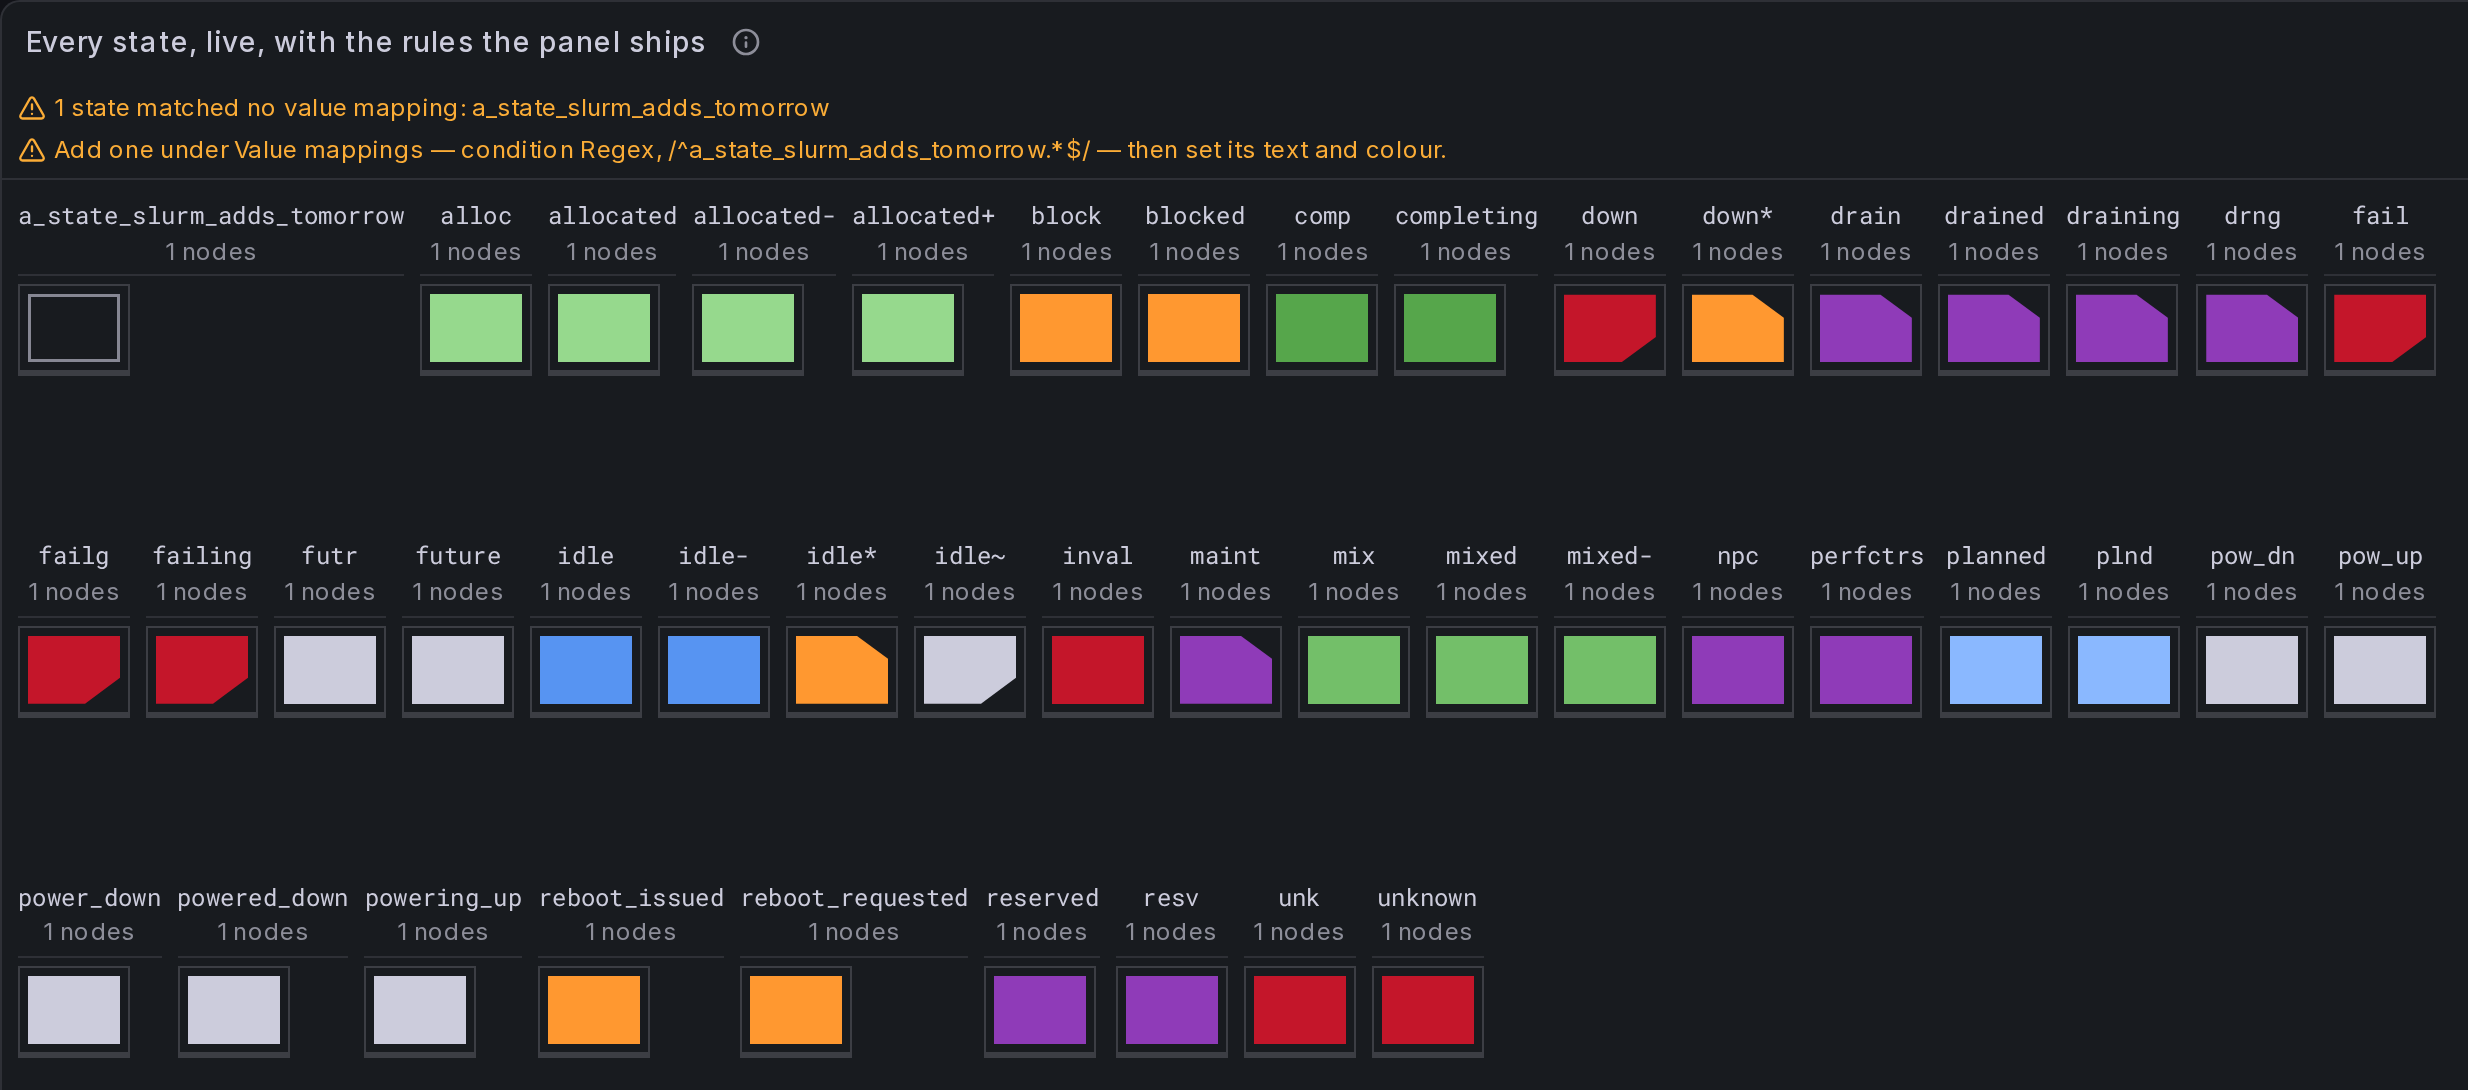
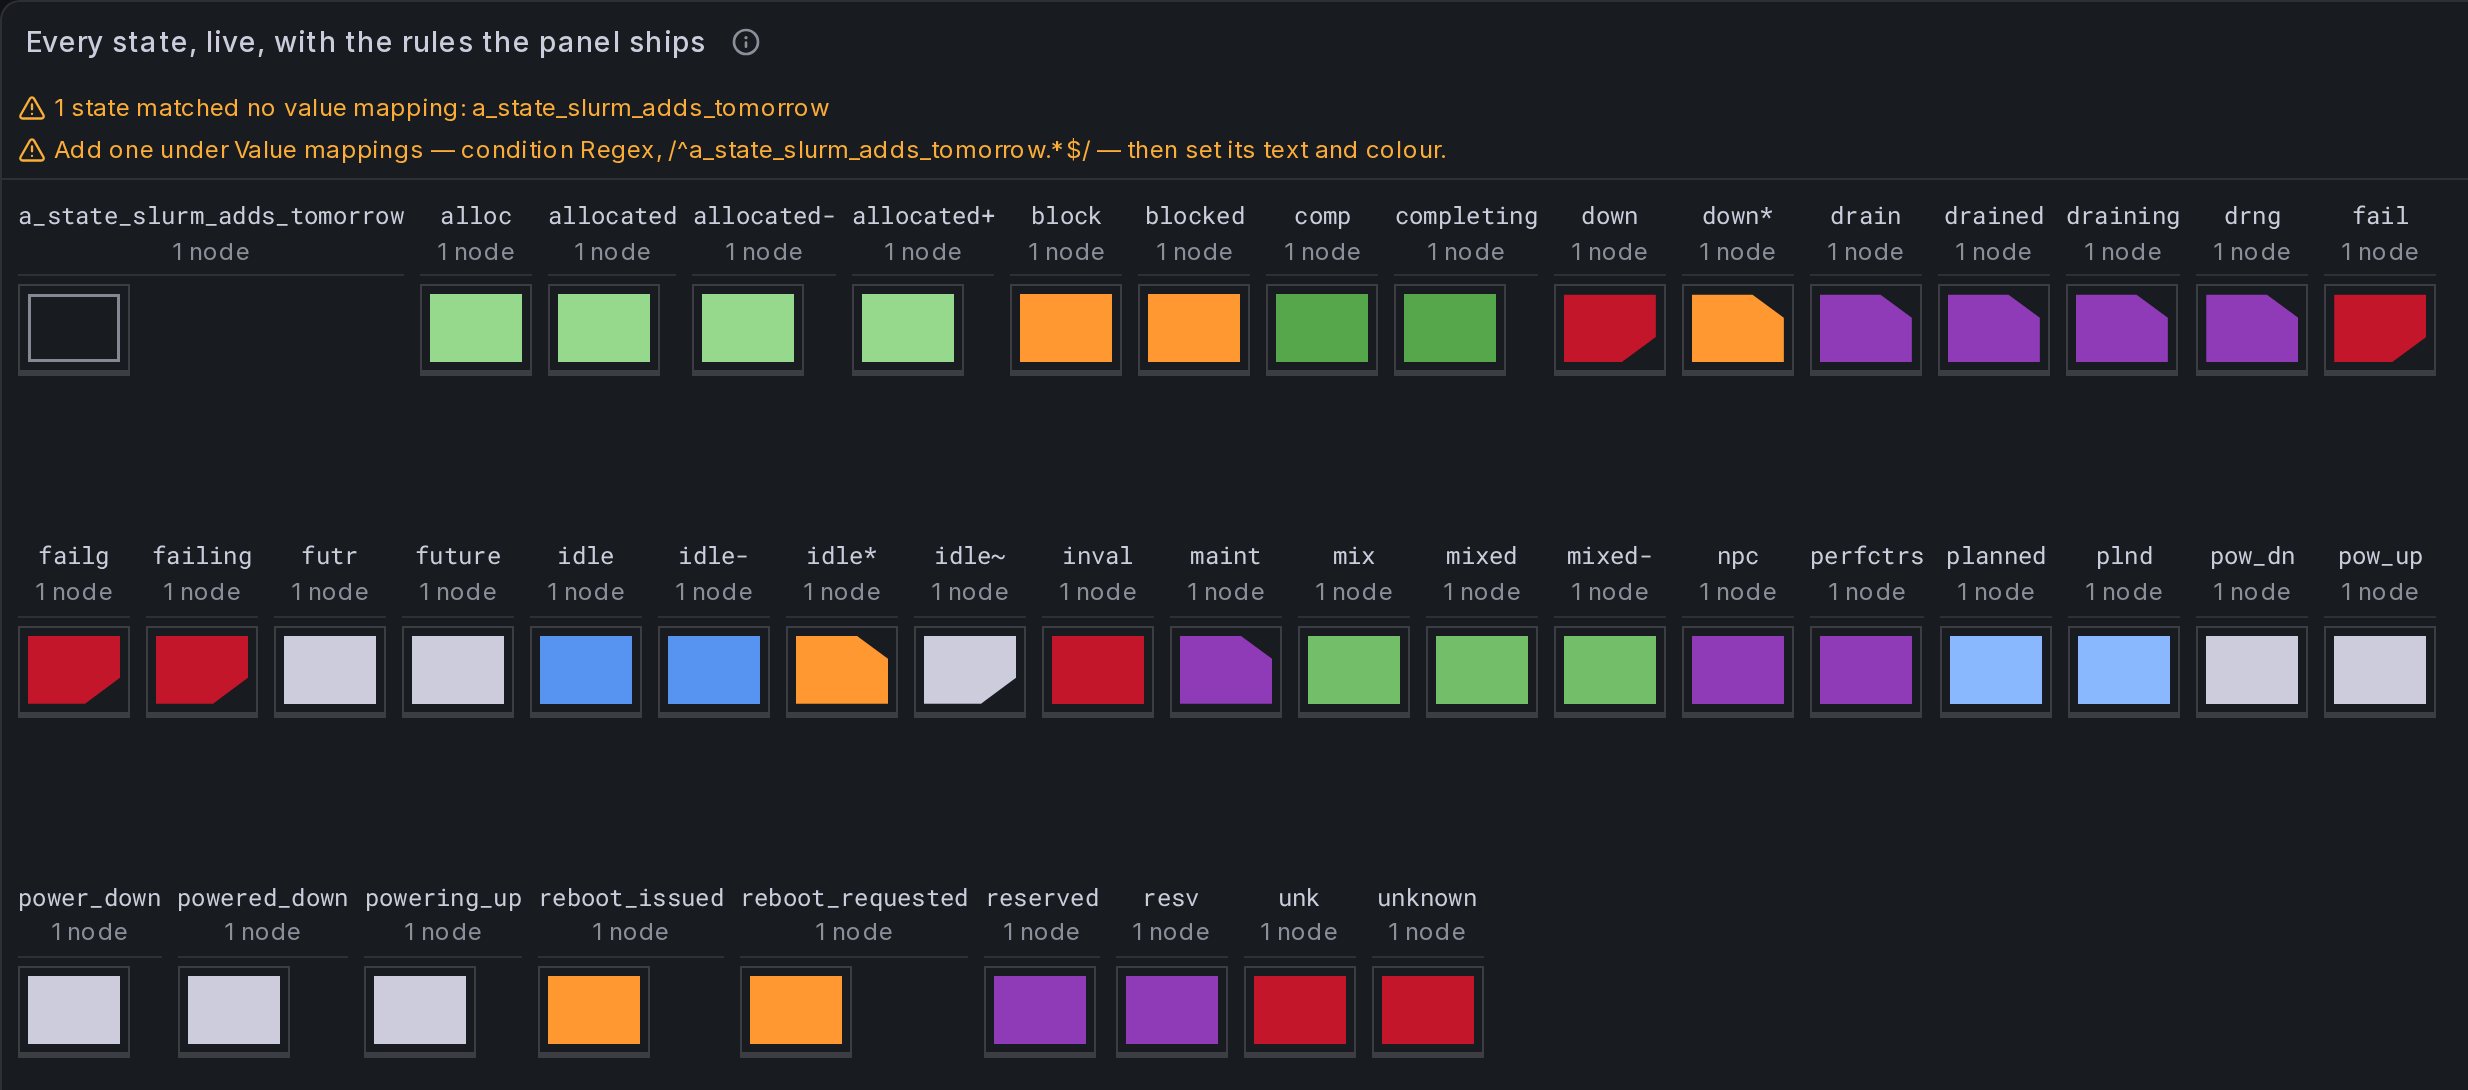
fix: nine panels were drawing past their own edges, and a group of one read "1 nodes"
Found by screenshotting all five dashboards and measuring scrollHeight
against clientHeight on every panel the plugin draws, rather than by
looking - the worst of them, Node grid, was clipping its group headers off
the top entirely, and a screenshot alone reads that as "the headers are
gone".

    node-grid   Nodes, grouped by rack          +309px
    utilisation State                           +347
    utilisation CPU / Memory / GPU occupancy    +303 each
    scenarios   Every state, live               +182
    scenarios   A production cluster            +347
    grouping    Deliberately incomplete          +61
    grouping    Two declared heights, one floor  +13

Mine, all of them: the cluster went from 240 nodes to 540 and I adjusted
only the two dashboards I was working in. Two causes.

Three panels declared no blades at all, so every node took its own slot and
a cpu rack of eighty needed eighty rows where it used to need forty. They
get the same table as the rest - cpu quad, bigmem triple, visu single, gpu
duo - which is also what the fixture now says that hardware is. The other
six had simply outgrown their height.

"Two declared heights, one floor" is the one that stings: what it clipped
was the top of the taller gpu cabinets, which is the only thing the panel
exists to show.

The pluralisation is a panel defect, not a dashboard one: GroupHeader
printed `{group.nodes.length} nodes` with no singular, so grouping by state
[…]

diff --git a/plugins/nodegrid-panel/tests/nodegrid.spec.ts b/plugins/nodegrid-panel/tests/nodegrid.spec.ts
@@ -158,22 +158,37 @@ test.describe('the panel supplies its own state colours', () => {
     // against a build without that default first, where it failed with 0
     // mapped cells out of 31.
     const dashboard = await readProvisionedDashboard({ fileName: 'slurm-node-scenarios.json' });
-    await gotoDashboardPage(dashboard);
+    const dashboardPage = await gotoDashboardPage(dashboard);
 
     await expect(page.getByTestId('slurm-node-grid').first()).toBeVisible({ timeout: 15_000 });
+
+    // Bring every panel into view first. Grafana mounts a panel only once it
+    // enters the viewport, so an unscrolled count is a count of whichever
+    // panels happen to fit today - this assertion once dropped from 203 to 43
+    // because a panel two rows up grew taller. Scrolling by title, the way
+    // gridIn does, makes the number a property of the dashboard rather than
+    // of its layout. A mouse wheel does not work here: the scenes renderer
+    // scrolls its own container, not the window.
+    for (const title of [
+      'Every state, live, with the rules the panel ships',
+      'A rack on the floor',
+      'The same rack, read without the shape channel',
+      'A drain storm, with the reasons attached',
+      'A production cluster on an ordinary day',
+    ]) {
+      await gridIn(dashboardPage, title);
+    }
 
     // One compound selector, not `.locator(cell).locator(mapped)` — the second
     // form searches for a mapped element *inside* each cell and matches
     // nothing, which reports zero on a grid that is fully coloured.
     const mapped = page.locator('[data-testid^="node-cell-"][data-mapped="true"]');
-    // 203 cells are mounted and mapped at this viewport — not every panel on
-    // the dashboard: Grafana mounts a panel only once it scrolls into view,
-    // and this test does not scroll. Counting the whole dashboard gives 643,
-    // which is why a bound read off a scrolled page fails here. A bound of 1
-    // would pass on a single lucky cell; 150 fails if the defaults reach only
-    // one panel, and stays clear of 203 so that adding an unmapped state to
-    // the reference panel does not break it.
-    await expect.poll(() => mapped.count(), { timeout: 15_000 }).toBeGreaterThan(150);
+    // 643 of the dashboard's 644 cells match a shipped rule; the one that does
+    // not is the deliberately unknown state. A bound of 1 would pass on a
+    // single lucky cell; 500 fails if the defaults reach only one panel - the
+    // largest alone is the 540-node live one - and stays clear of 643 so that
+    // adding an unmapped state does not break it.
+    await expect.poll(() => mapped.count(), { timeout: 20_000 }).toBeGreaterThan(500);
 
     // Mapped is not the same as coloured: a uniformly grey grid would still
     // report every cell as mapped. The eleven rules resolve to nine colours.

diff --git a/plugins/nodegrid-panel/src/components/NodeGroup.test.tsx b/plugins/nodegrid-panel/src/components/NodeGroup.test.tsx
@@ -87,6 +87,22 @@ const group: NodeGroupModel = {
 };
 
 describe('NodeGroup', () => {
+  it('counts one node as a node, not as nodes', () => {
+    // A group of one is not a corner case here: grouping by state gives one
+    // group per state, and the scenarios dashboard draws forty-four of them
+    // side by side, every one of them reading "1 nodes".
+    const alone: NodeGroupModel = { key: 'rack-9', nodes: [mkNode('node-a')], assumed: false };
+    renderGroup(alone, { ...DEFAULT_OPTIONS, layout: 'rack' });
+
+    expect(screen.getByText('1 node')).toBeInTheDocument();
+    expect(screen.queryByText('1 nodes')).not.toBeInTheDocument();
+  });
+
+  it('counts anything other than one as nodes', () => {
+    renderGroup(group, { ...DEFAULT_OPTIONS, layout: 'rack' });
+    expect(screen.getByText('2 nodes')).toBeInTheDocument();
+  });
+
   it('draws a rack frame of sleds when layout is rack', () => {
     renderGroup(group, { ...DEFAULT_OPTIONS, layout: 'rack' });
 

diff --git a/plugins/nodegrid-panel/src/components/GroupHeader.tsx b/plugins/nodegrid-panel/src/components/GroupHeader.tsx
@@ -39,7 +39,11 @@ export function GroupHeader({ group, unplaced, stacked = false, showCount = true
   return (
     <div className={styles.header}>
       <span className={styles.name}>{group.key}</span>
-      {showCount && <span className={styles.count}>{group.nodes.length} nodes</span>}
+      {showCount && (
+        <span className={styles.count}>
+          {group.nodes.length} {group.nodes.length === 1 ? 'node' : 'nodes'}
+        </span>
+      )}
       {/* Chunking invents structure. The claim stays visible in the panel,
           not only in the editor. */}
       {group.assumed && <span className={styles.assumed}>assumed</span>}
